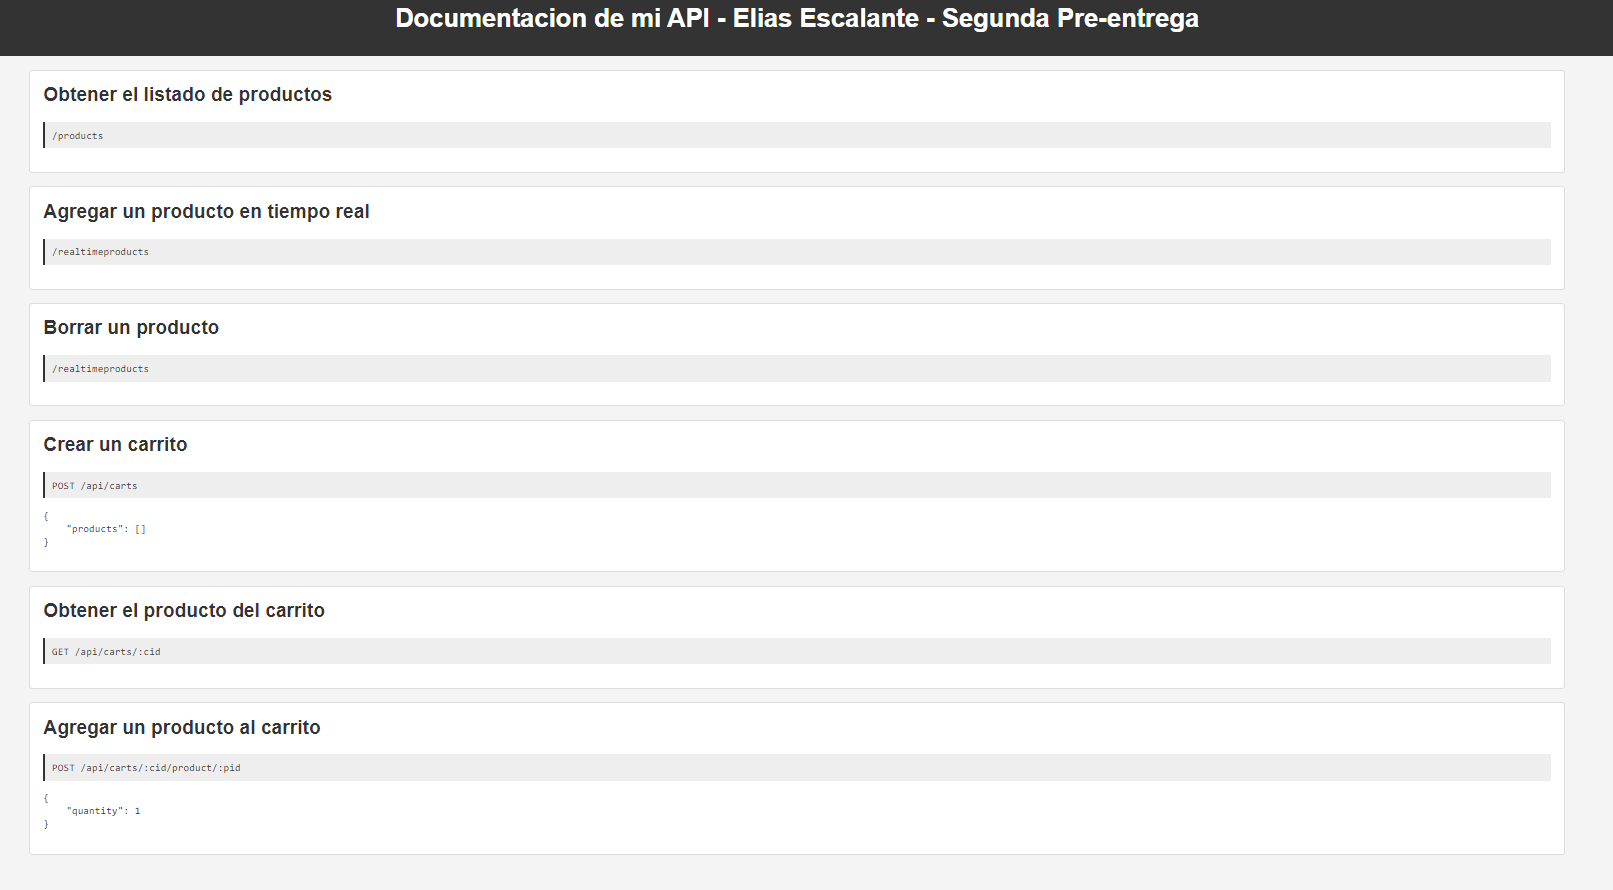
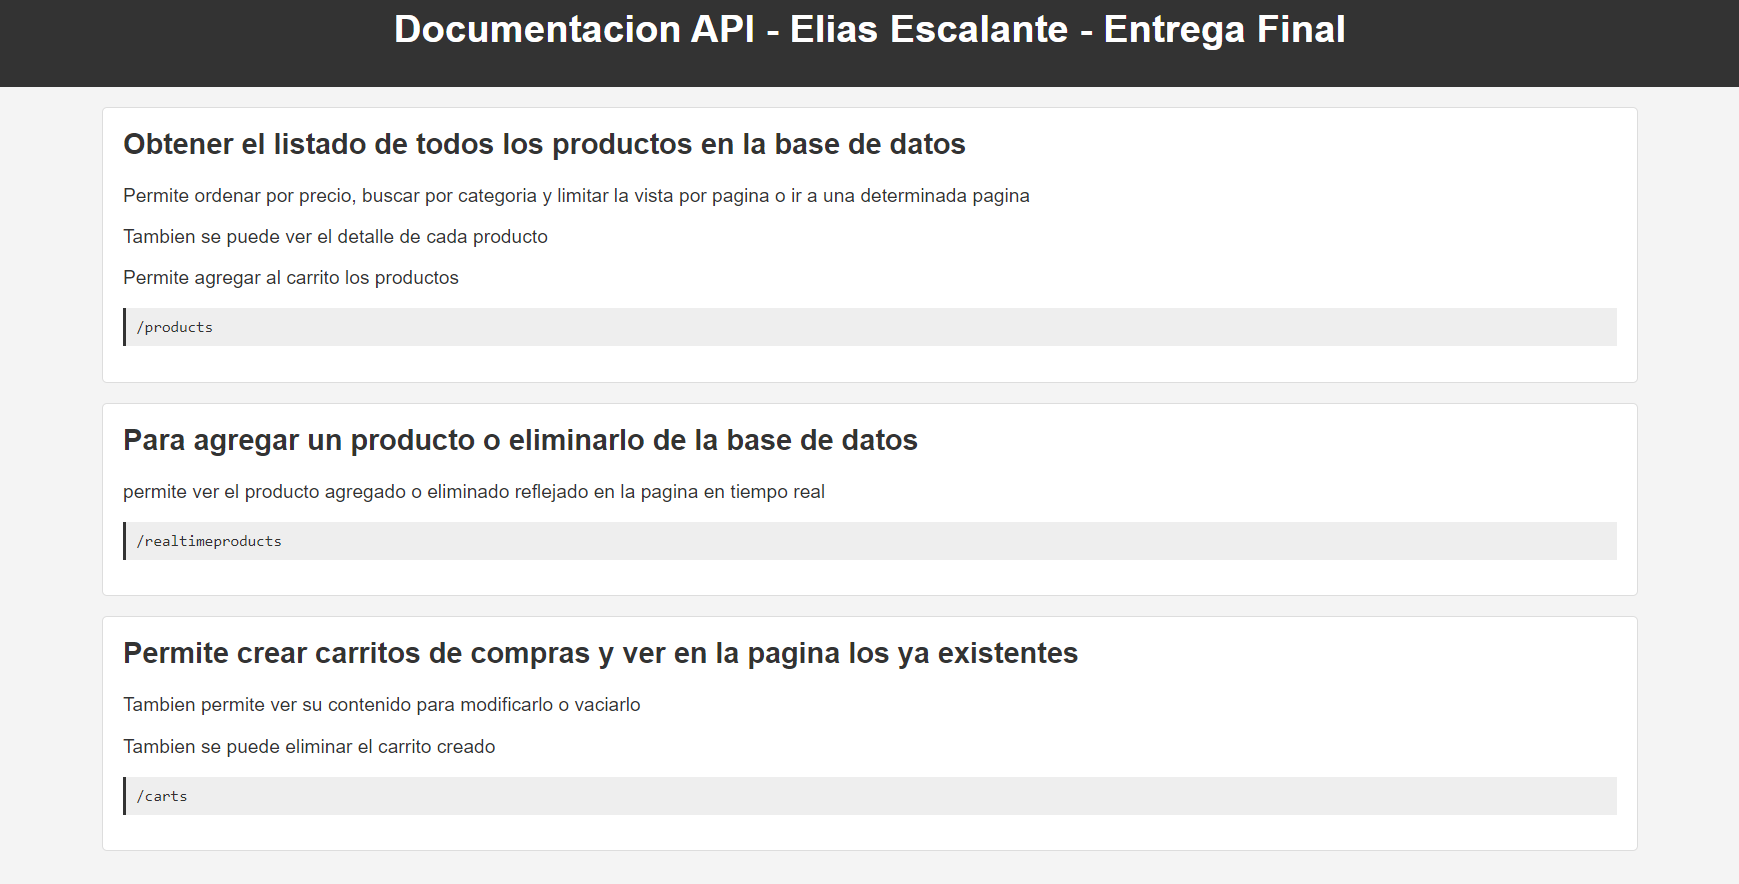
update to readme.md y capturas

diff --git a/README.md b/README.md
@@ -11,8 +11,8 @@
 
 ## Descripción del Proyecto
 
-Este servidor proporciona una API para manejar productos y carritos de compra. Los productos y carritos se almacenan en archivos JSON, y el servidor permite realizar operaciones CRUD (Crear, Leer, Actualizar, Eliminar) sobre estos datos.
-Se agrego Websockets al proyecto.
+Este servidor proporciona una API para manejar productos y carritos de compra. Los productos y carritos se almacenan una base de datos (MongoDB), y el servidor permite realizar operaciones CRUD (Crear, Leer, Actualizar, Eliminar) sobre estos datos.
+Se agrego Websockets al proyecto y vistas con plantillas.
 
 ## Cómo Ejecutar el Proyecto
 
@@ -37,7 +37,7 @@ Se agrego Websockets al proyecto.
   - **Actualizar Producto**: `PUT /api/products/:pid`
   - **Eliminar Producto**: `DELETE /api/products/:pid`
 ----
-## Funcionalidades PRE-ENTREGA 2
+## Funcionalidades segunda pre-entrega
 
 - Se agrego al proyecto Websockets y se integro el trabajo con vistas.
 - Se implemento handlebars.
@@ -52,8 +52,13 @@ Se agrego Websockets al proyecto.
 -  `realTimeProducts` : realiza el alta y la eliminacion de un producto en la base de datos que se encuentra en la nube, utilizando el frontend .
 - `realTimeProducts` : muestra ademas en tiempo real cuando se agrega un producto y cuando se elimina.
 - `products` : ahora muestra todos los productos desde la nueva base de datos en la nube. 
-- 
--
+- `products` : permite ademas ver un detalle de cada producto.
+- `products` : cada elemento tiene un boton que permite agregar el producto al carrito seleccionado
+- `carts` : muestra todos los carritos creados.
+- `carts` : permite ver el contenido de cada carrito.
+- `carts` : permite modificar la cantidad de un producto en el carrito.
+- `carts` : permite eliminar un producto del carrito y vaciar el mismo
+- `carts` : permite eliminar el carrito.
 
 
 CAPTURA DEL PROYECTO:
